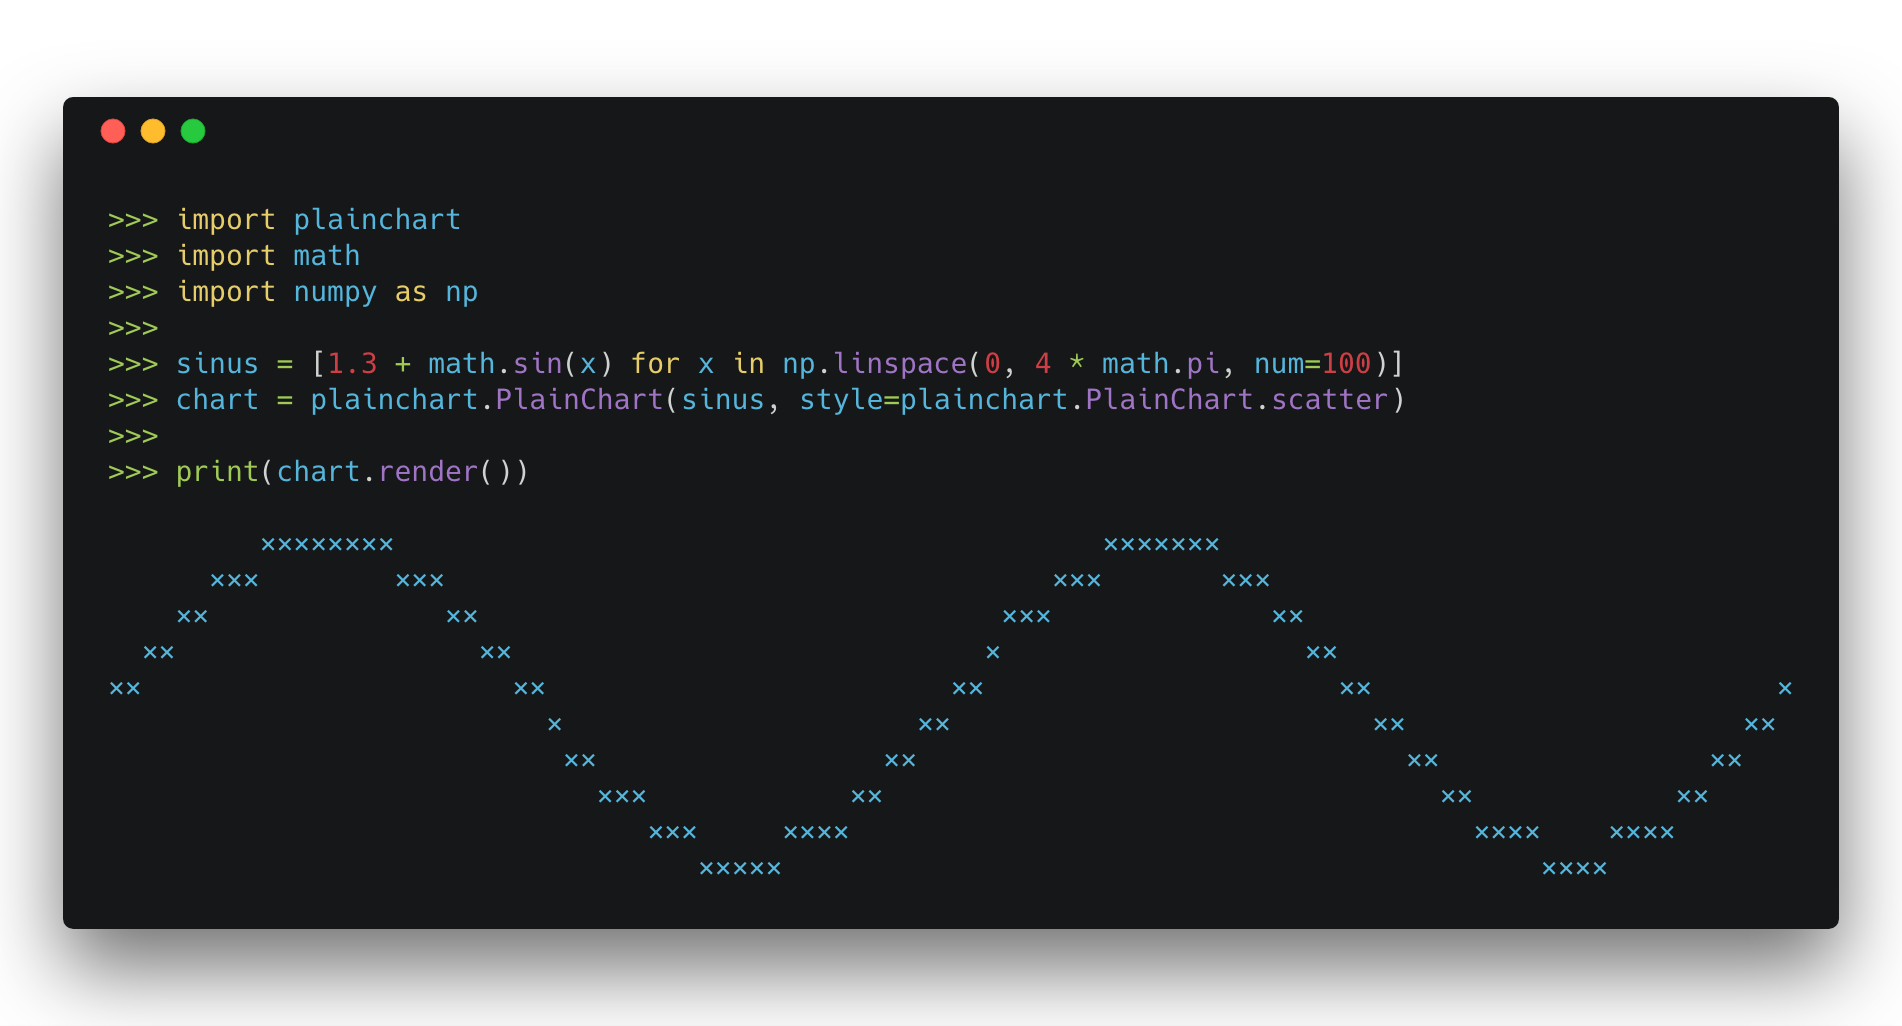
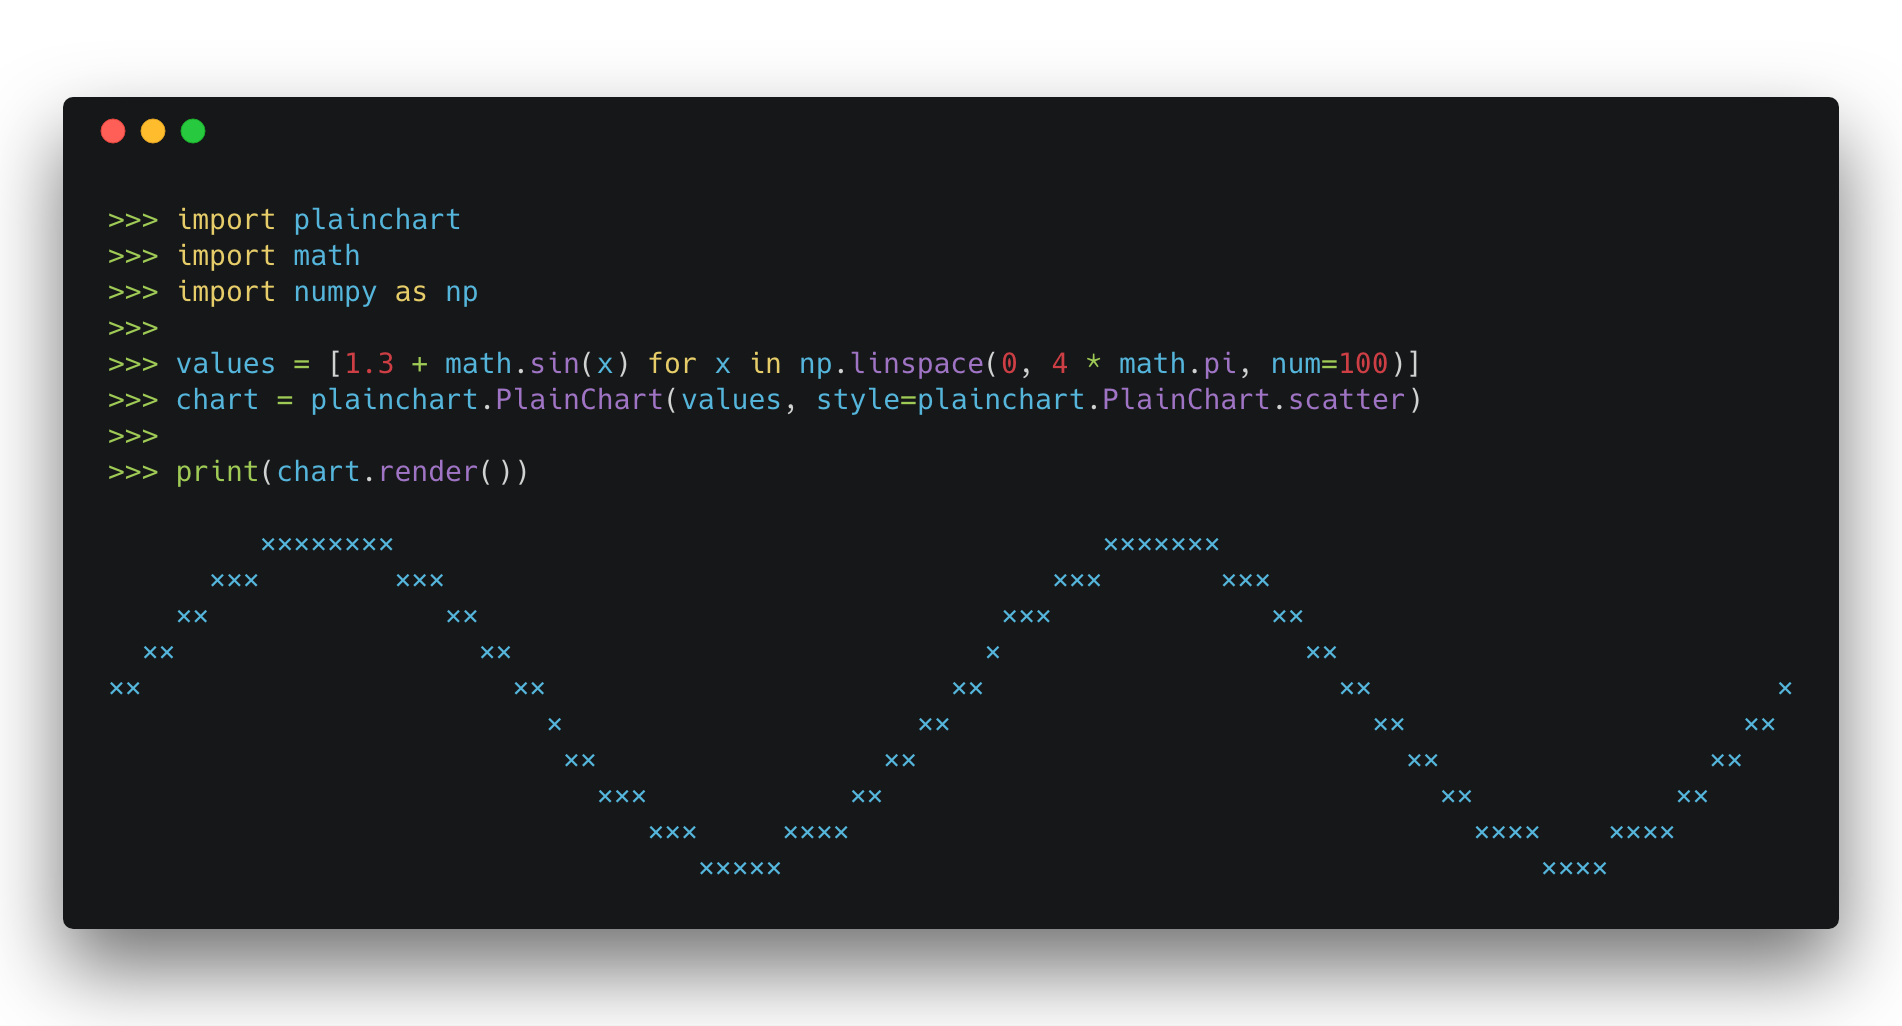
Update images and bump version

Changed region(s): [[0.0931, 0.3431, 0.7445, 0.4055]]

diff --git a/setup.py b/setup.py
@@ -5,7 +5,7 @@ with open('README.md', 'r') as fh:
 
 setuptools.setup(
 	name='plainchart',
-	version='0.2.0',
+	version='0.2.1',
 	author='Georges Duverger',
 	author_email='georges.duverger@gmail.com',
 	description='A simple plain-text, no-dependencies, pip-installable, open-source charting utility in Python.',
